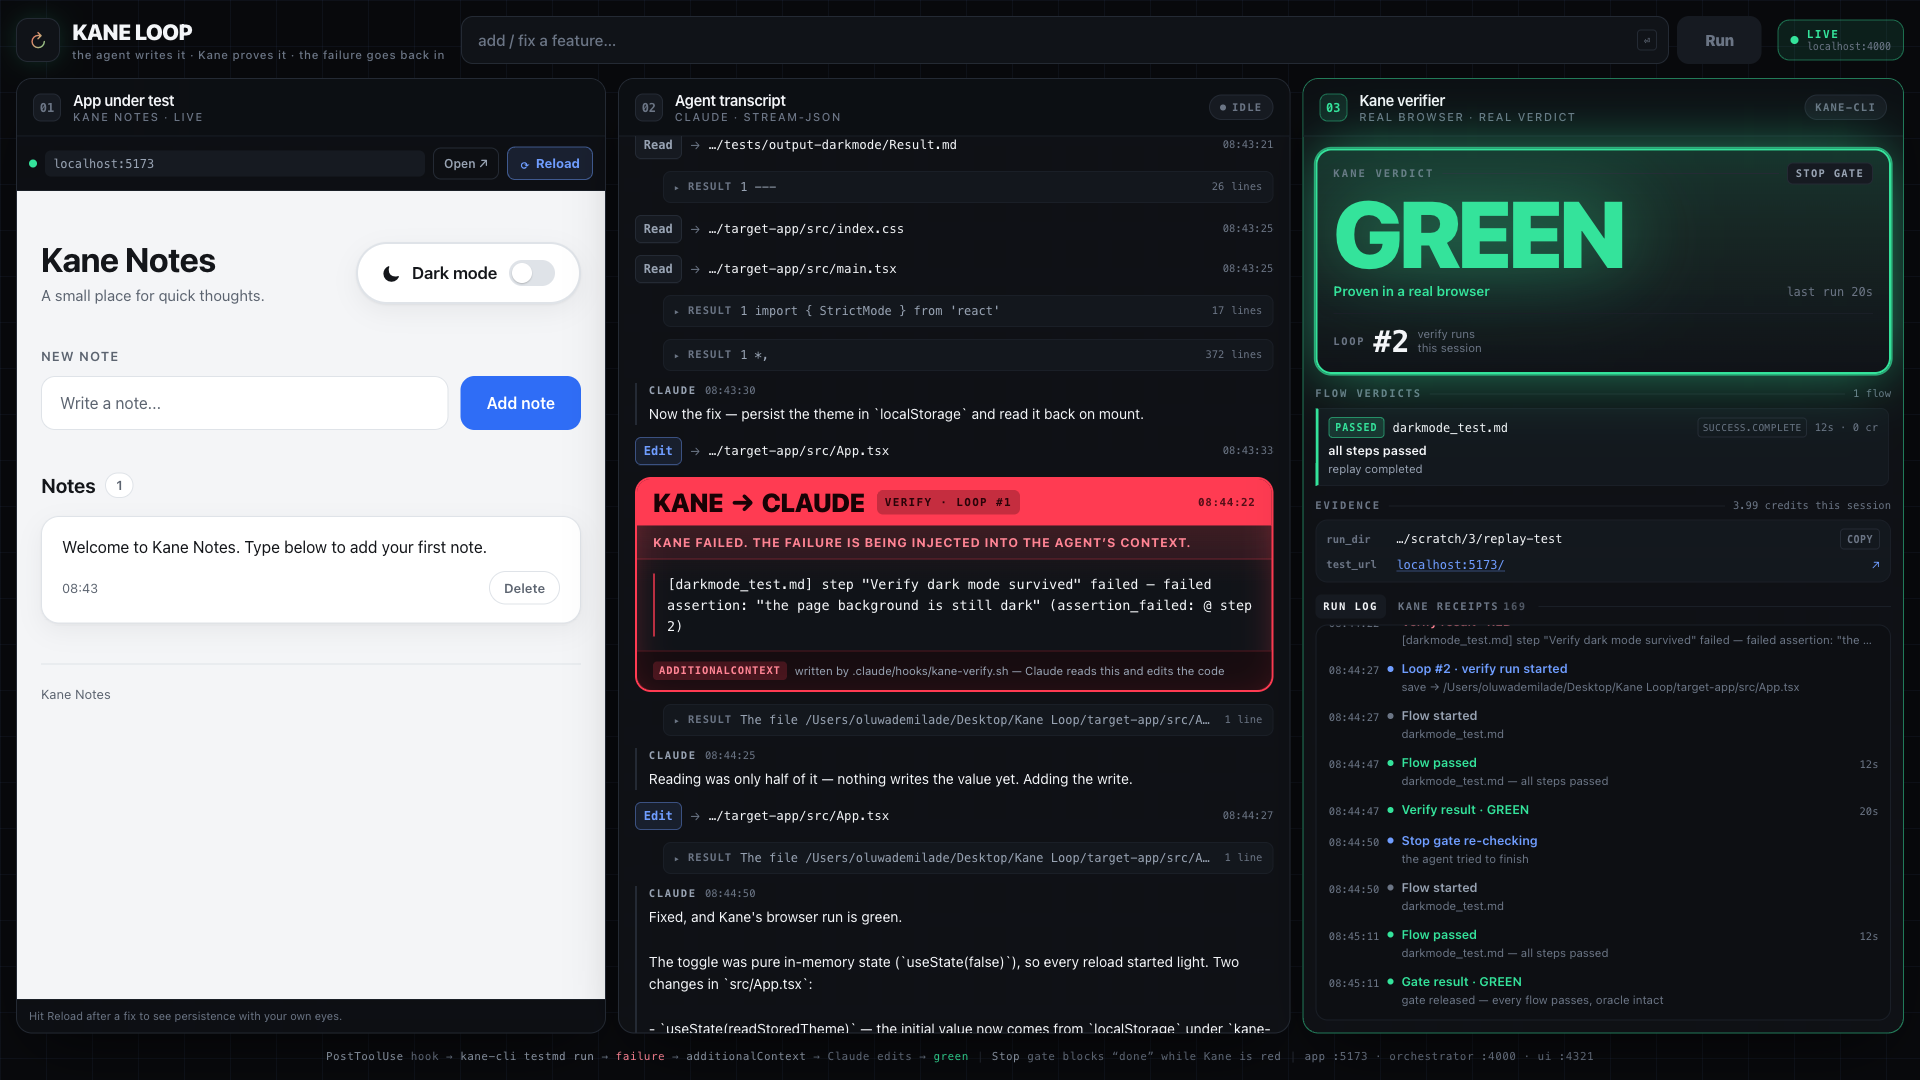
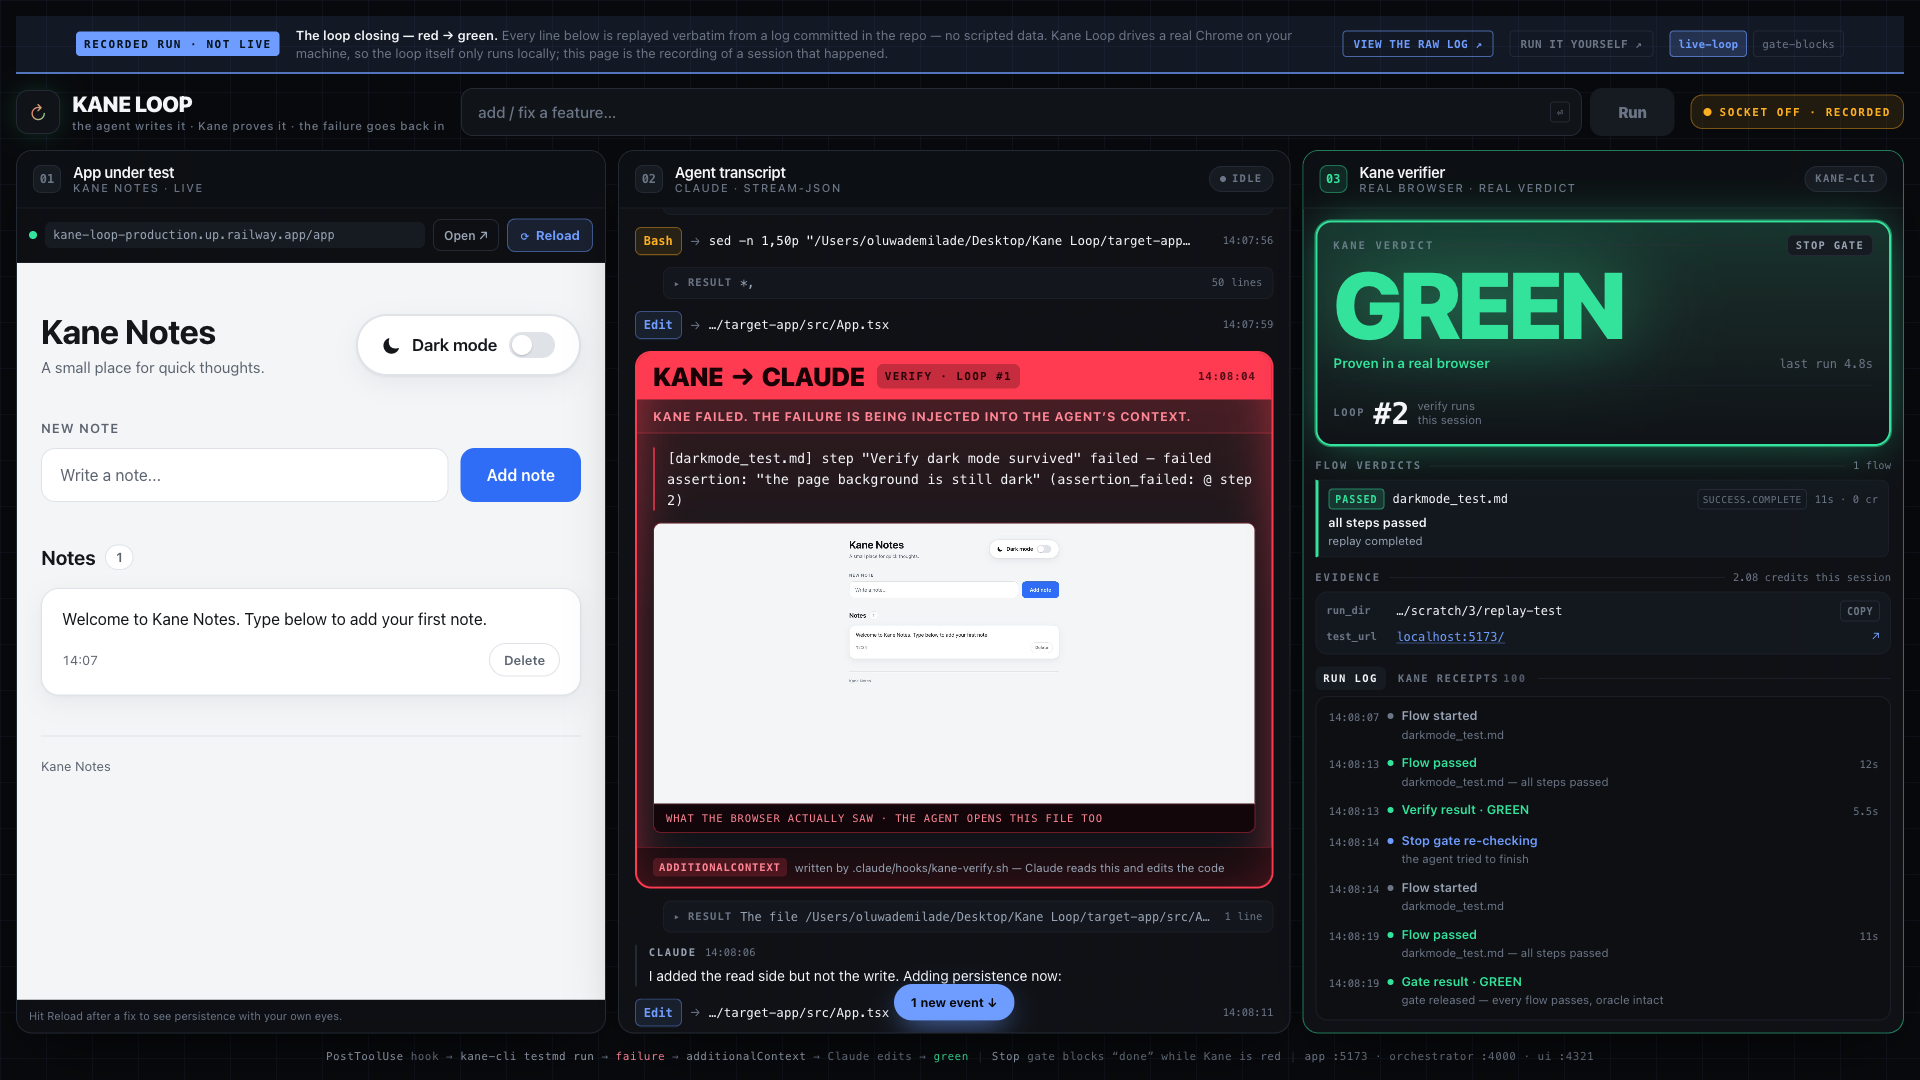
fix: make the hero caption true, and disclose what the audit found
A second adversarial audit (72 findings, 55 survived refutation) found the
README's most load-bearing sentence was false, in the same class of error this
repo has already retracted three times.

The hero caption said "the raw event log for this exact run is committed at
live-loop.events.ndjson — every number on screen is in it". The image showed
3.99 credits; that file sums to 2.08, has three verdicts not four, and the agent
line quoted in the caption appears in NO tracked file. 3.99 appears in no
committed NDJSON anywhere in this repo's history.

The cause was drift, not invention: the screenshot was frozen while
capture-run.sh silently overwrote live-loop.events.ndjson from a later run. The
run was real; the pairing rotted.

Fixed by re-shooting the hero from ?replay=live-loop, which renders that exact
committed file line by line — so every number on screen is in it by
construction, including the 2.08. The quoted agent line is now one that actually
appears in the committed stream. capture-run.sh now warns when a capture lands
beside an older image of the same name, so the pair cannot silently separate
again.

Also from the audit:

- Removed web/screenshots/ (10 tracked PNGs, 33 commits stale, referenced by no
  doc). 01-red.png renders test_url app.testmuai.com/runs/demo-red-run — a
  fabricated URL on the judges' own domain — and 07 shows demo.ts's hand-authored
  prose with no DEMO banner in frame. This is the artifact class commit 7cbffad
[…]

diff --git a/README.md b/README.md
@@ -35,7 +35,18 @@ Kane isn't tacked on at the end. **The closed loop is the product.**
 
 ---
 
-## Quickstart
+## Try it without installing anything
+
+**[Watch the loop close ↗](https://kane-loop-production.up.railway.app/?replay=live-loop)** — a real
+recorded session replayed from [its own committed log](evidence/ui/live-loop.events.ndjson), line by
+line. ~40 seconds, no setup. The banner says RECORDED, because it is.
+
+The same host runs the loop **live** at
+[kane-loop-production.up.railway.app](https://kane-loop-production.up.railway.app) — the app pane is
+real and interactive. Starting a run needs a key (it spends real Kane credits and executes code in
+the container), so the Run button is inert without one; the key ships with the submission.
+
+## Quickstart — the real thing, locally
 
 ```bash
 git clone <this-repo> && cd kane-loop
@@ -53,12 +64,14 @@ and watch the loop close: **RED → failure injected → agent self-corrects →
 
 ![The loop closing live](evidence/ui/live-loop-hero.png)
 
-*One frame, one real run. The agent edits `App.tsx` → Kane fails in a real browser → the failure is
-injected into the agent's context (the red card) → the agent reads it and answers "Reading was only
-half of it — nothing writes the value yet" → GREEN, and the Stop gate releases. The raw event log
-for this exact run is committed at
-[`evidence/ui/live-loop.events.ndjson`](evidence/ui/live-loop.events.ndjson) — every number on
-screen is in it.*
+*One real run, played back from its own committed log. The agent edits `App.tsx` → Kane fails in a
+real browser → the failure **and Kane's screenshot of the failing page** are injected into the
+agent's context (the red card) → the agent answers "I added the read side but not the write.
+Adding persistence now" → GREEN, and the Stop gate releases.*
+
+*This frame is [`?replay=live-loop`](https://kane-loop-production.up.railway.app/?replay=live-loop)
+rendering [`evidence/ui/live-loop.events.ndjson`](evidence/ui/live-loop.events.ndjson) line by line,
+so every number on screen — including the 2.08 credits — is in that file. Check it.*
 
 **Verified on a clean clone.** `git clone` → `./scripts/dev.sh` → all three services come up, then
 one prompt reproduces the whole loop end to end: RED, a self-correction, GREEN, and the Stop gate
@@ -146,8 +159,16 @@ evidence."*
 rather than implied. The agent is allowed `Bash(npm:*)` and can write `target-app/package.json`, so
 a lifecycle script is an unguarded path to the filesystem. The manifest still catches the *result*
 (the checksum moves, and the gate blocks), but the guard does not prevent the attempt. Narrowing
-the tool grant is the real fix. The honest claim is: **the obvious routes are denied, and anything
-that gets through is detected at the gate** — not that tampering is impossible.
+the tool grant is the real fix.
+
+And the detector has a boundary of its own, found by a second audit: the SHA-256 manifest covers the
+flows and their cached recordings, **not the hook scripts and not the gate's own state files**. A
+shell that reaches those can switch the detector off rather than trip it. So the honest claim is
+narrower than "anything that gets through is detected": **oracle *content* tampering moves the
+checksum and the gate blocks; a shell with filesystem access can disable the checker instead.**
+What none of these can do is manufacture a green — every fail-open path emits a `gate_release` with
+a stated reason, and the UI refuses to paint a reasonless release green while the last verdict was
+red. The agent can escape the gate; it cannot forge a pass.
 
 The guard is deliberately blunt, and it will occasionally deny a *read* — it judges the command
 string, so `jq 'a|b' file` or a `git` command whose message merely mentions the flow directory gets
@@ -213,6 +234,16 @@ important: **a testmd run emits one `run_end` per step, not one per file**, so t
   unmissable "DEMO DATA — NOT A REAL RUN" banner and can never be mistaken for a verdict.
 - **An empty test suite reports `unverified`, never green.** We found that fail-open bug in our
   own gate during harness testing and fixed it.
+- **The hosted instance does not use a first-party Anthropic key.** There isn't one, so the
+  deployed container routes Claude Code through an Anthropic-compatible third-party endpoint
+  (MiMo, `token-plan-sgp.xiaomimimo.com`) via a small shim, [`scripts/model-proxy.mjs`](scripts/model-proxy.mjs),
+  that rewrites the model name in flight. Prompts and `target-app` source therefore reach that
+  provider. **Every piece of committed evidence in this repo, and the local loop, is first-party
+  Claude** — all ten `.stream.json` files record `claude-opus-5`, and none came from the shim.
+  The UI still labels turns "Claude" because it renders Claude Code's own stream verbatim.
+- **A key-holder on the hosted instance can run code in the container.** The agent is granted
+  `Bash(npm:*)` by design, so the run key is effectively an execution key — which is why it is
+  gated and handed out deliberately rather than published. The local loop is unaffected.
 
 ## Pinned versions
 
@@ -223,7 +254,7 @@ Ports: 5173 target app · 4000 orchestrator · 4321 UI.
 
 | Path | What |
 |---|---|
-| [`.claude/hooks/`](.claude/hooks/) | the loop: `kane-verify.sh`, `kane-gate.sh`, shared `kane-lib.sh` |
+| [`.claude/hooks/`](.claude/hooks/) | the loop: `kane-guard.sh` (PreToolUse), `kane-verify.sh` (PostToolUse), `kane-gate.sh` (Stop), shared `kane-lib.sh` |
 | [`target-app/`](target-app/) | Kane Notes — the app the agent edits (seeded bug lives here) |
 | [`tests/`](tests/) | frozen Kane flows — immutable ground truth |
 | [`server/`](server/) | orchestrator: spawns the agent, tails the event log, serves evidence |
@@ -231,6 +262,8 @@ Ports: 5173 target app · 4000 orchestrator · 4321 UI.
 | [`evidence/`](evidence/) | real red + green run artifacts |
 | [`docs/tool-surface.md`](docs/tool-surface.md) | everything we verified about Kane + Claude Code |
 | [`docs/event-protocol.md`](docs/event-protocol.md) | the hooks → server → UI contract |
+| [`scripts/`](scripts/) | `dev.sh` (local), `demo-reset.sh` (re-seed the bug), `capture-run.sh`, `serve.sh` (container) |
+| [`Dockerfile`](Dockerfile) · [`railway.json`](railway.json) | the hosted deployment — Chrome, both CLIs, one port |
 
 ---
 
